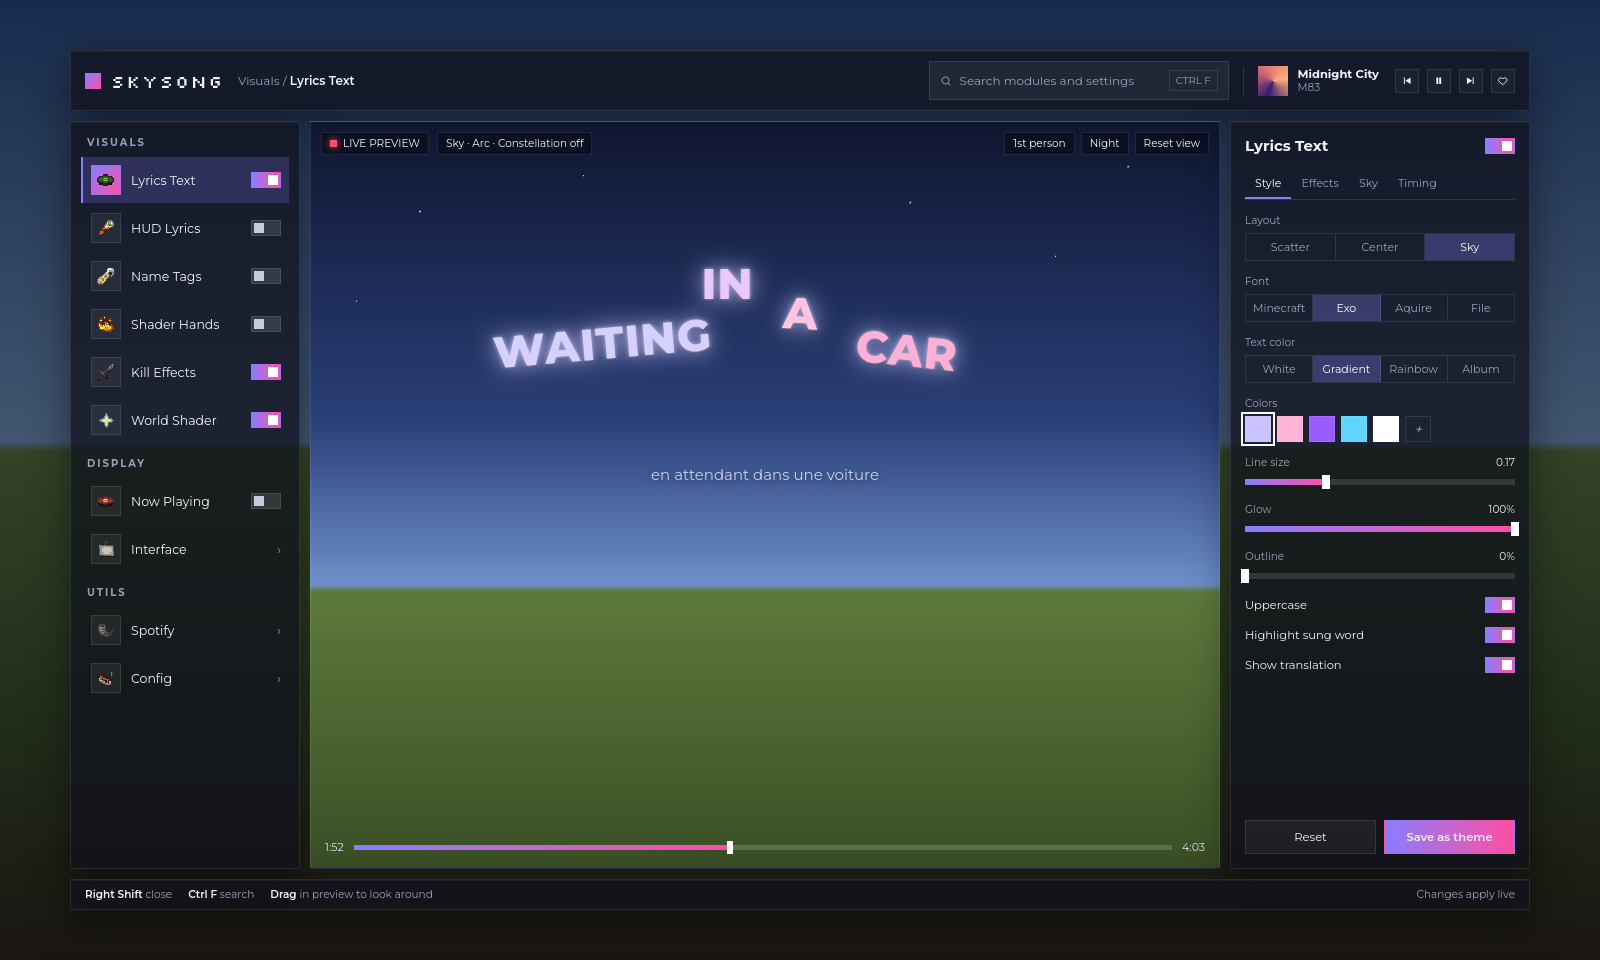
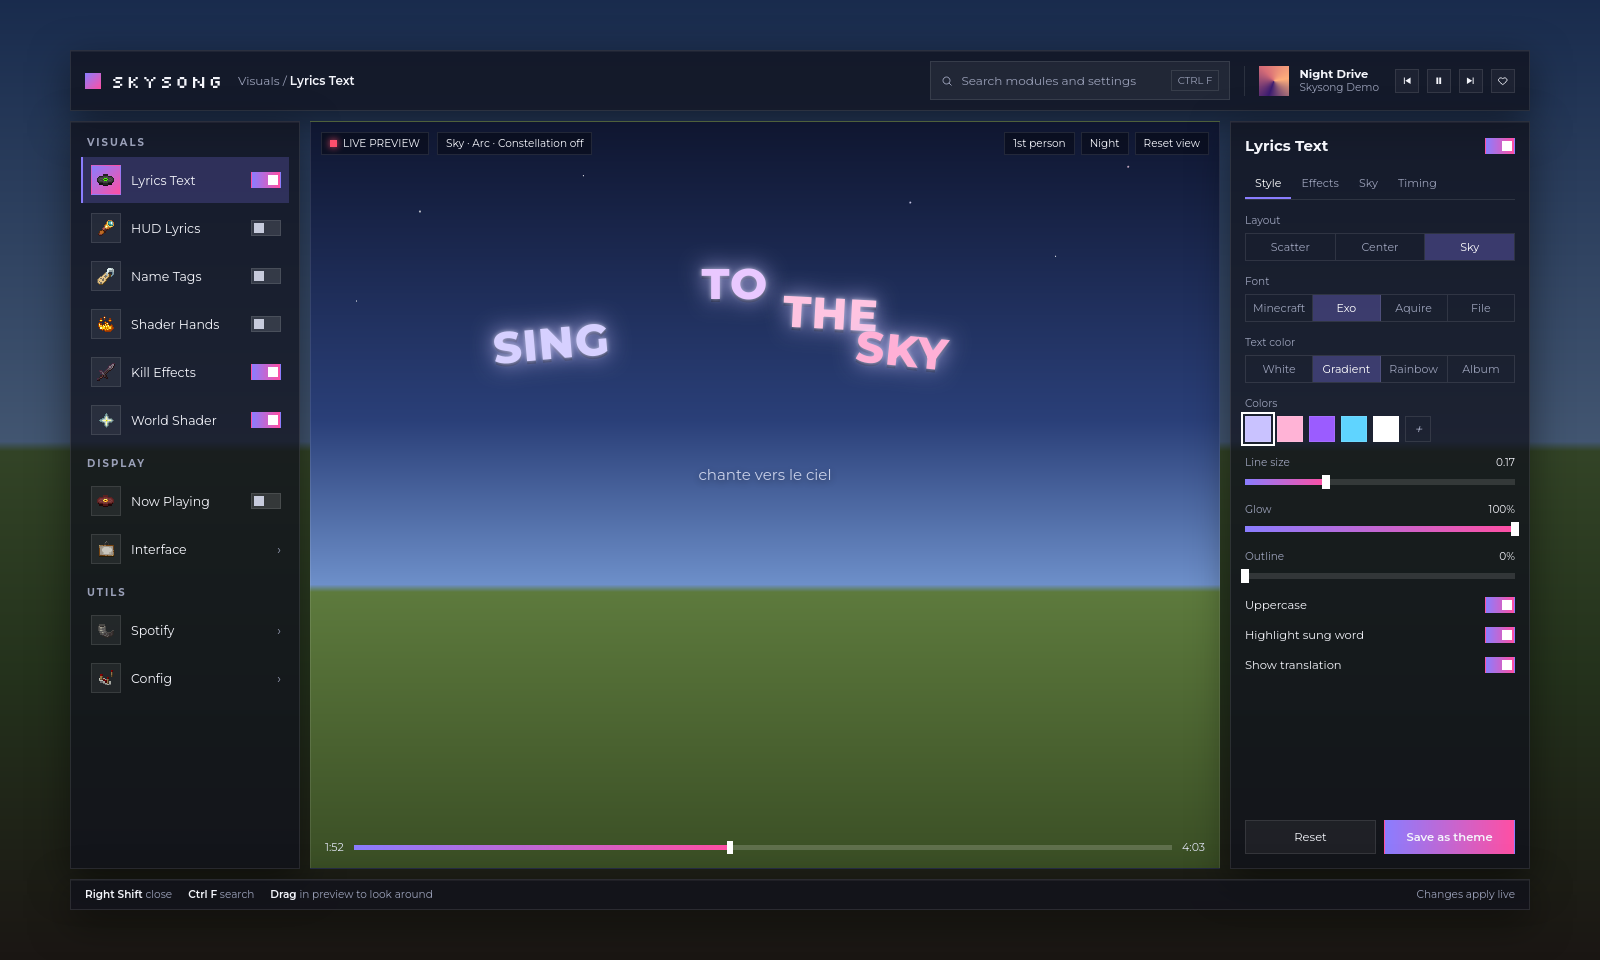
Use original demo text in the Live editor mockup

diff --git a/design/mockups/live-editor.html b/design/mockups/live-editor.html
@@ -87,7 +87,7 @@ background:linear-gradient(180deg,#0f1630 0%,#2a3f78 40%,#6d8fc9 62%,#5d7a3d 63%
     <div class="brand"><div class="cube"></div>SKYSONG</div>
     <div class="crumb">Visuals / <b>Lyrics Text</b></div>
     <div class="search"><svg class="i" viewBox="0 0 24 24" fill="none" stroke="currentColor" stroke-width="2"><circle cx="11" cy="11" r="7"/><path d="M21 21l-5-5"/></svg>Search modules and settings<span class="key" style="margin-left:auto">CTRL F</span></div>
-    <div class="now"><div class="art"></div><div><b>Midnight City</b><div style="color:var(--dim);font-size:10.5px">M83</div></div>
+    <div class="now"><div class="art"></div><div><b>Night Drive</b><div style="color:var(--dim);font-size:10.5px">Skysong Demo</div></div>
       <div class="ctr">
         <span><svg class="i" viewBox="0 0 24 24" fill="currentColor"><path d="M6 5h2v14H6zM20 5v14L9 12z"/></svg></span>
         <span><svg class="i" viewBox="0 0 24 24" fill="currentColor"><path d="M7 5h4v14H7zM13 5h4v14h-4z"/></svg></span>
@@ -116,11 +116,11 @@ background:linear-gradient(180deg,#0f1630 0%,#2a3f78 40%,#6d8fc9 62%,#5d7a3d 63%
     <div class="preview"><div class="stars"></div>
       <div class="bar"><span class="tag live">LIVE PREVIEW</span><span class="tag">Sky · Arc · Constellation off</span>
         <div class="r"><span class="tag">1st person</span><span class="tag">Night</span><span class="tag">Reset view</span></div></div>
-      <div class="word" style="left:20%;top:26%;color:#d6d0ff;transform:rotate(-5deg)">WAITING</div>
-      <div class="word" style="left:43%;top:18%;color:#e9c8ff">IN</div>
-      <div class="word" style="left:52%;top:22%;color:#ffc4e1;transform:rotate(3deg)">A</div>
-      <div class="word" style="left:60%;top:27%;color:#ffb0d6;transform:rotate(6deg)">CAR</div>
-      <div class="tr">en attendant dans une voiture</div>
+      <div class="word" style="left:20%;top:26%;color:#d6d0ff;transform:rotate(-5deg)">SING</div>
+      <div class="word" style="left:43%;top:18%;color:#e9c8ff">TO</div>
+      <div class="word" style="left:52%;top:22%;color:#ffc4e1;transform:rotate(3deg)">THE</div>
+      <div class="word" style="left:60%;top:27%;color:#ffb0d6;transform:rotate(6deg)">SKY</div>
+      <div class="tr">chante vers le ciel</div>
       <div class="time">1:52<div class="track"><i></i><b></b></div>4:03</div>
     </div>
 
